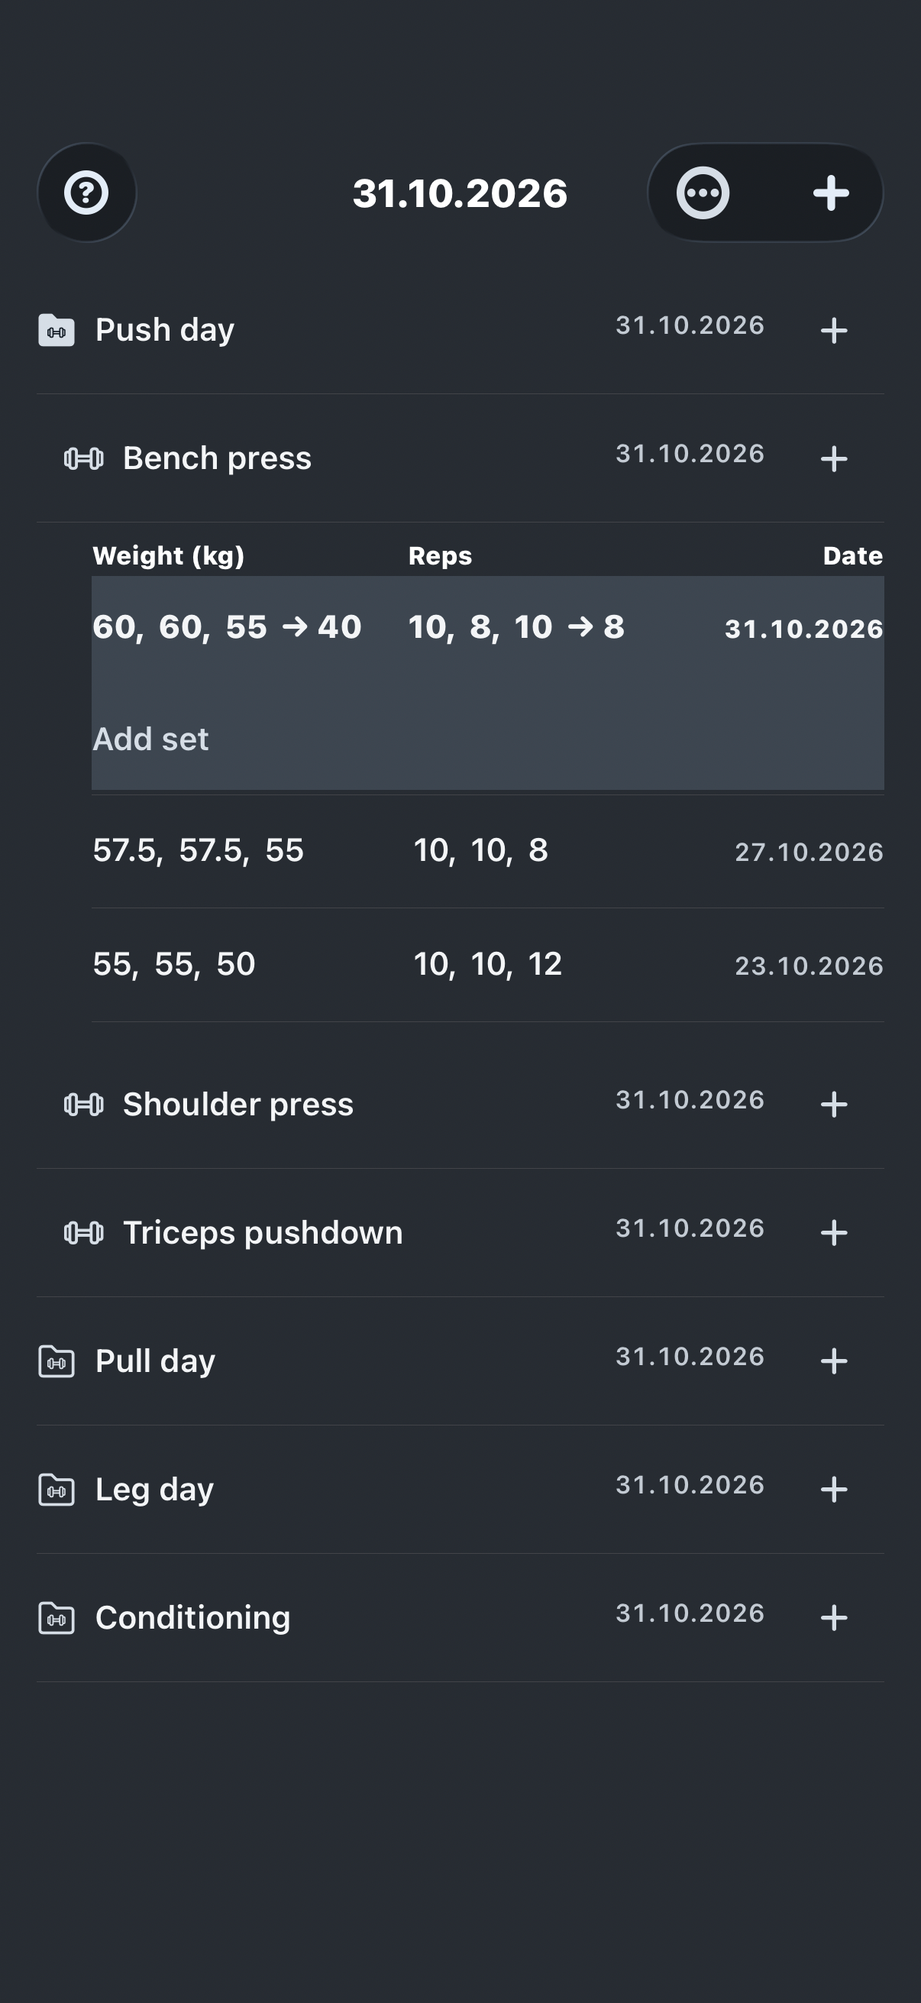
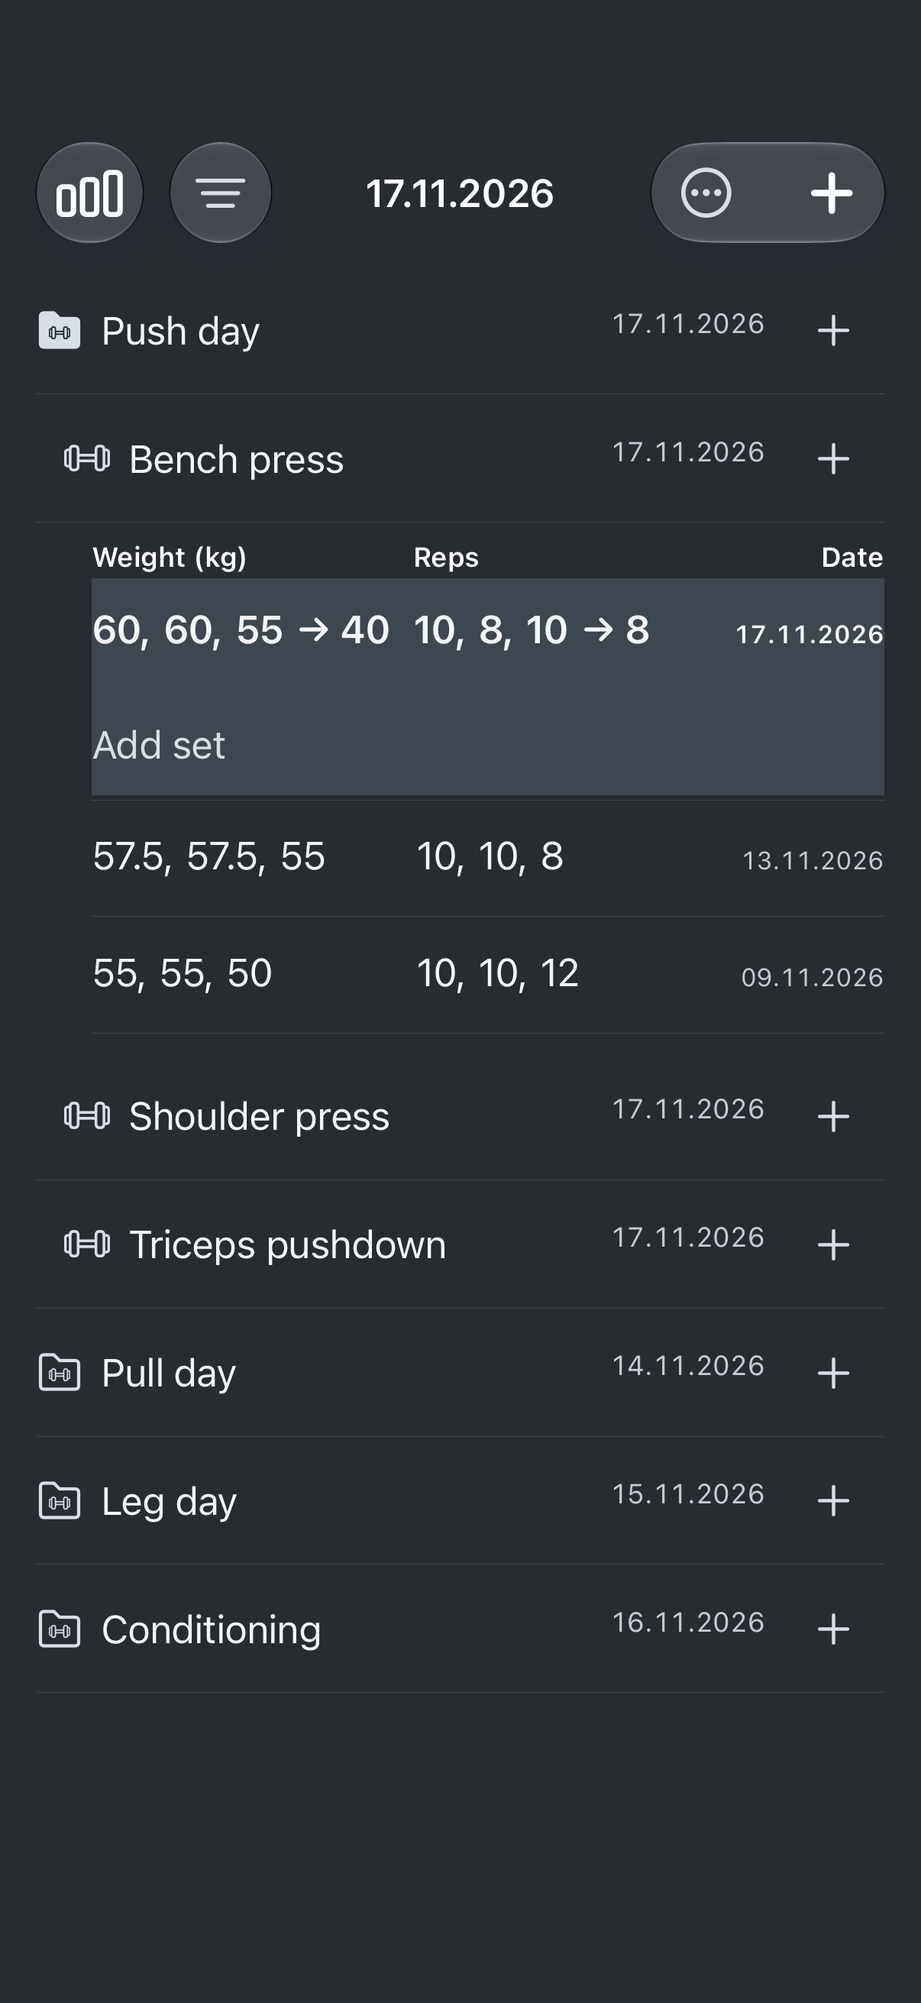
docs: refresh website guide and native screenshots

diff --git a/user-guide.html b/user-guide.html
@@ -18,11 +18,11 @@
             <nav class="contents" aria-label="Guide contents"><h2>In this guide</h2><ol><li><a href="#get-started">Set up your journal</a></li><li><a href="#record">Record a workout</a></li><li><a href="#cardio">Record cardio</a></li><li><a href="#history">History &amp; suggestions</a></li><li><a href="#edit">Edit sets &amp; dates</a></li><li><a href="#organize">Organize your journal</a></li><li><a href="#appearance">Themes &amp; layouts</a></li><li><a href="#backups">Export &amp; restore</a></li><li><a href="#ai">Use your records with AI</a></li></ol></nav>
             <div>
                 <section id="get-started" class="guide-section"><p class="eyebrow">01 · Get started</p><h2>Build your first training day.</h2><p>Your journal starts empty. A folder can represent a training day, a muscle group, or any grouping that makes sense to you.</p><ol><li>Tap <strong>+</strong> in the Journal toolbar to create a top-level folder. Give it a name and tap <strong>OK</strong>.</li><li>Tap <strong>+</strong> at the right of that folder, then choose <strong>Exercise</strong>. You can also choose <strong>Folder</strong> to create a folder inside it.</li><li>Name the exercise and choose <strong>Weight training</strong> or <strong>Cardio</strong>. Tap <strong>OK</strong>.</li><li>Tap the folder name or date to expand it. Tap again to collapse it.</li></ol><div class="callout"><p>The toolbar’s <strong>+</strong> always creates a top-level folder, even when another folder is open. Use the <strong>+</strong> on a folder row to add something inside it.</p></div><figure class="screenshot"><img src="assets/screenshots/journal-wild.png" width="402" height="874" loading="lazy" alt="A sample Wild journal with an expanded training folder and its exercise history."><figcaption>Folders and exercise histories expand in the same journal.</figcaption></figure></section>
-                <section id="record" class="guide-section"><p class="eyebrow">02 · Strength training</p><h2>One set at a time.</h2><ol><li>Tap <strong>+</strong> beside an exercise to start today’s workout.</li><li>Enter kilograms and repetitions. Tap <strong>OK</strong> to save the set.</li><li>Use <strong>Add set</strong> below today’s date, or the exercise’s <strong>+</strong>, to continue the same workout.</li></ol><p>Use a decimal point for weight, such as <code>60.5</code>, and whole numbers for repetitions. Zero is valid in either field. Commas and negative values are not accepted. <strong>OK</strong> becomes available when both fields are valid.</p><h3>Link a drop set</h3><p>Separate each step with a dash. For example, weights <code>60-40</code> and reps <code>10-8</code> record 60 kg × 10 followed by 40 kg × 8 as one linked set. Each weight needs exactly one repetition value.</p><p>Saved history uses an arrow between linked steps. Separate sets stay separate. <strong>Cancel</strong> discards an unsaved entry.</p></section>
+                <section id="record" class="guide-section"><p class="eyebrow">02 · Strength training</p><h2>One set at a time.</h2><ol><li>Tap <strong>+</strong> beside an exercise to start today’s workout.</li><li>Enter kilograms and repetitions. Tap <strong>OK</strong> to save the set.</li><li>Use <strong>Add set</strong> below today’s date, or the exercise’s <strong>+</strong>, to continue the same workout.</li></ol><p>Use a decimal point for weight, such as <code>60.5</code>, and whole numbers for repetitions. Zero is valid in either field. Negative kilograms represent assistance, such as <code>-20</code> for 20 kg of assistance. Repetitions must be nonnegative. Commas separate drop steps, not decimals. <strong>OK</strong> becomes available when both fields are valid.</p><h3>Link a drop set</h3><p>Separate each step with a dash or comma. Use commas for assisted weights, such as <code>-20,-10</code> with reps <code>10,8</code>. For example, weights <code>60-40</code> and reps <code>10-8</code> record 60 kg × 10 followed by 40 kg × 8 as one linked set. Each weight needs exactly one repetition value.</p><p>Saved history uses an arrow between linked steps. Separate sets stay separate. <strong>Cancel</strong> discards an unsaved entry.</p></section>
                 <section id="cardio" class="guide-section"><p class="eyebrow">03 · Cardio</p><h2>Record weight and time.</h2><p>Choose <strong>Cardio</strong> when creating the exercise. An exercise’s type stays fixed after creation.</p><p>Enter kilograms and a time in minutes:seconds or minutes.seconds. Both <code>2:10</code> and <code>2.10</code> mean <strong>2 minutes 10 seconds</strong>, not 2.1 minutes.</p><ul><li>Use two seconds digits, from <code>00</code> to <code>59</code>.</li><li>Time must be greater than zero. For two whole minutes, enter <code>2:00</code>.</li><li>For linked steps, enter weights such as <code>20-10</code> with times such as <code>2:10-1.30</code>.</li></ul><p>History displays time as <strong>m:ss</strong>. Previous weights can be suggested, but you enter the duration actually performed.</p></section>
-                <section id="history" class="guide-section"><p class="eyebrow">04 · Look back</p><h2>Your last session, close at hand.</h2><p>Tap an exercise’s name or date area to show its history underneath. An exercise with no records shows <strong>No workouts yet.</strong></p><p>A new workout suggests weights from the most recent calendar date in that exercise’s history. Each new set uses the corresponding previous set’s weights. A previous drop set suggests its full weight chain.</p><p>Suggestions are editable. Repetitions and cardio times stay blank so you can record what you actually did. Suggestions are separate from saved results and are not included in CSV backups.</p></section>
+                <section id="history" class="guide-section"><p class="eyebrow">04 · Look back</p><h2>Your last session, close at hand.</h2><p>Tap an exercise’s name or date area to show its history underneath. An exercise with no records shows <strong>No workouts yet.</strong></p><p>A new workout suggests weights from the most recent calendar date in that exercise’s history. Each new set uses the corresponding previous set’s weights. A previous drop set suggests its full weight chain.</p><p>Suggestions use the full exercise history, even with a date filter active, and are editable. Repetitions and cardio times stay blank so you can record what you actually did. Suggestions are separate from saved results and are not included in CSV backups.</p><h3>Filter history by date</h3><p>Tap the filter button beside Statistics and choose <strong>1 month</strong>, <strong>3 months</strong>, <strong>6 months</strong> or <strong>12 months</strong> through today. All folders and exercises remain visible. Tap the period chip’s <strong>×</strong> or choose <strong>Clear filter</strong> to show all history. Filtering does not change saved records, statistics or exports; it clears after a fresh app launch or replacing the journal.</p><h3>View statistics</h3><p>Tap the chart button at Journal’s top left for total days trained, total saved workouts and a weekly streak. Days count once across exercises; several sets in one workout still count as one workout. The streak counts consecutive Monday–Sunday weeks with training, keeping last week’s streak during an unfinished current week. Weekly grid squares show distinct training days; tap one for details. Save or cancel an open draft before using Statistics or Date filter.</p></section>
                 <section id="edit" class="guide-section"><p class="eyebrow">05 · Make a correction</p><h2>A quick edit, or a whole workout.</h2><p>Press and hold a saved value to choose <strong>Edit set</strong> or <strong>Manage workout</strong>.</p><div class="table-scroll"><table class="data-table"><caption class="small">When changes are saved</caption><thead><tr><th scope="col">Action</th><th scope="col">How to save</th></tr></thead><tbody><tr><td>Edit set</td><td><strong>OK</strong> saves the correction. <strong>Cancel</strong> discards it.</td></tr><tr><td>Manage workout</td><td>Edit, add missing sets or drag handles to reorder. Tap <strong>Save</strong> at the top to save the whole draft.</td></tr><tr><td>Edit set inside Manage workout</td><td><strong>OK</strong> updates only the workout draft. You still need to tap the workout’s <strong>Save</strong>.</td></tr></tbody></table></div><div class="callout"><p>In <strong>Manage workout</strong>, the top <strong>Cancel</strong> button or dismissing the screen discards all unsaved workout changes. If saving fails, the draft stays open so you can retry or cancel.</p></div><figure class="screenshot"><img src="assets/screenshots/manage-workout.png" width="402" height="874" loading="lazy" alt="Manage workout screen showing separate sets, reorder handles, Cancel and Save."><figcaption>Manage a workout as a draft, then save your changes together.</figcaption></figure><h3>Remove a drop step</h3><p>Use <strong>Edit set</strong> and remove that step’s value from both fields. Removing a whole set removes its entire linked group.</p><h3>Change the date</h3><p>Press and hold a workout’s date, choose a calendar date, and tap <strong>OK</strong>. If the exercise already has a workout on that date, choose <strong>Combine</strong> to join their sets.</p></section>
-                <section id="organize" class="guide-section"><p class="eyebrow">06 · Keep things in order</p><h2>Arrange your routine.</h2><p>Press and hold a folder or exercise for <strong>Rename</strong>, <strong>Move</strong> or <strong>Delete</strong>. When moving, select the destination and tap <strong>Move here</strong>.</p><p>For top-level ordering, use <strong>Journal → ••• → Reorder contents</strong>. To order items inside a folder, press and hold it and choose <strong>Reorder contents</strong>. Drag the handles, then tap <strong>Save</strong>. Cancel or dismissing discards the unsaved order.</p><p>Review deletion confirmations carefully. Export a backup first if you want to keep a separate copy of the records.</p></section>
+                <section id="organize" class="guide-section"><p class="eyebrow">06 · Keep things in order</p><h2>Arrange your routine.</h2><p>A folder’s date shows its latest workout, including nested exercises; folders without workouts show <strong>—</strong>.</p><p>Press and hold a folder or exercise for <strong>Rename</strong>, <strong>Move</strong> or <strong>Delete</strong>. When moving, select the destination and tap <strong>Move here</strong>.</p><p>For top-level ordering, use <strong>Journal → ••• → Reorder contents</strong>. To order items inside a folder, press and hold it and choose <strong>Reorder contents</strong>. Drag the handles, then tap <strong>Save</strong>. Cancel or dismissing discards the unsaved order.</p><p>Review deletion confirmations carefully. Export a backup first if you want to keep a separate copy of the records.</p></section>
                 <section id="appearance" class="guide-section"><p class="eyebrow">07 · Make it yours</p><h2>A different view of the same work.</h2><p>Open <strong>Journal → ••• → Theme</strong> for Wild, Iron light, Steel or Notes. Wild is the default. Each theme sets its own light or dark appearance.</p><div class="theme-list"><div class="theme wild"><h3>Wild</h3><p>Light, with green animal icons.</p></div><div class="theme iron"><h3>Iron light</h3><p>Light, with orange gym icons.</p></div><div class="theme steel"><h3>Steel</h3><p>Dark gray, with silver gym icons.</p></div><div class="theme notes"><h3>Notes</h3><p>Dark, with yellow accents.</p></div></div><figure class="screenshot"><img src="assets/screenshots/journal-steel.png" width="402" height="874" loading="lazy" alt="The same sample workout history in the dark Steel theme with silver gym icons."><figcaption>The same journal, in Steel.</figcaption></figure><h3>Choose a history layout</h3><p>Open <strong>Journal → ••• → History layout</strong>.</p><ul><li><strong>Compact lists:</strong> several sets per line, separated by commas.</li><li><strong>Aligned sets:</strong> each set starts on a new line.</li><li><strong>Weight × reps:</strong> pairs such as <code>60 kg × 10</code>; linked steps use arrows. Cardio uses time in place of repetitions.</li></ul><p>Changing the theme or layout does not change your saved workouts or an entry you are editing. Your choices are remembered on this device, separately from CSV backups.</p></section>
                 <section id="backups" class="guide-section"><p class="eyebrow">08 · Back up your journal</p><h2>A local journal. A separate backup.</h2><p>Lift &amp; Hop works offline and stores the journal on your iPhone. It does not provide live journal synchronization between devices.</p><h3>Export a copy</h3><ol><li>Open <strong>Journal → ••• → Export</strong>.</li><li>Keep the timestamped filename, or enter a name of your own.</li><li>Tap <strong>Share CSV</strong>, then use <strong>Save to Files</strong> to choose a destination.</li><li>Complete the save and check that the file exists at that destination.</li></ol><p>For an off-device backup, choose a location such as iCloud Drive when available and verify the copy there. Opening or closing the share sheet alone does not confirm that a backup was saved.</p><figure class="screenshot"><img src="assets/screenshots/export.png" width="402" height="874" loading="lazy" alt="Export screen offering a filename, Include AI prompt toggle and Share CSV."><figcaption>Exports include saved records, empty folders and exercises—not unsaved drafts or display preferences.</figcaption></figure><h3>Import a file</h3><p>Open <strong>Journal → ••• → Import → Choose CSV file</strong>. The app checks the entire file before changing any entries. Review the counts, then choose:</p><ul><li><strong>Add to journal:</strong> keeps your current entries and adds separate copies at the end of Journal. Matching names and dates are not merged. Importing the same file again creates duplicates.</li><li><strong>Replace journal:</strong> removes the current journal and restores only what is in the selected file.</li></ul><div class="callout warning"><p><strong>Replace applies to the whole journal.</strong> Anything missing from the selected backup is removed. Replacing with an empty backup removes all current entries. Use <strong>Export current journal</strong> first to keep a separate copy.</p></div><p>Canceling, an invalid file or a failed import leaves the existing journal saved. Completing an export during import does not start Add or Replace; you must still choose the import action.</p><h3>Use a recovery backup</h3><p>Before either Add or Replace, the app saves a recovery CSV on the same device. Open <strong>Import → Recovery backups</strong>, select a copy and use <strong>Replace journal</strong> to return to it. Choosing Add would create additional copies.</p><p>Recovery files remain after relaunch and are not automatically deleted. They help recover from an import, but do not protect against losing access to the phone. Keep an off-device export too.</p><p class="small">Lift &amp; Hop CSV exports preserve exercise types and cardio durations.</p></section>
                 <section id="ai" class="guide-section"><p class="eyebrow">09 · Optional external tools</p><h2>Take your records further.</h2><h3>Convert older workout notes</h3><p>Use <strong>Import → Export AI import prompt</strong> to save instructions for converting existing records. Paste the prompt into your chosen AI chat, attach only the records you want converted, and answer questions about dates, units and unclear notation.</p><p>Check the resulting CSV against the original records before importing it. Choose <strong>Add to journal</strong> to retain your existing entries; Replace affects the entire journal.</p><h3>Explore an exported journal</h3><p>Turn on <strong>Include AI prompt</strong> in Export to include instructions for interpreting the CSV and creating spreadsheet tables or charts. Save both files, then provide them to your chosen service. This option starts off each time you open Export.</p><div class="callout"><p>The app does not send your journal to an AI service automatically. Records you attach or share are handled under that service’s privacy practices. The prompt file alone contains no personal journal data.</p></div><p>Need a hand? Visit <a href="support.html">Support</a> or read the <a href="privacy.html">Privacy policy</a>.</p></section>

diff --git a/support.html b/support.html
@@ -15,7 +15,7 @@
     <main id="main" class="container">
         <div class="page-intro"><p class="eyebrow">Support</p><h1>Let’s get you back<br>to your journal.</h1><p class="lead">Questions, something unexpected, or an idea to share? Start with the guide or send a message.</p></div>
         <div class="support-layout">
-            <section class="contact-panel" aria-labelledby="contact-title"><h2 id="contact-title">Get in touch.</h2><p><a class="email" href="mailto:lift-hop@outlook.com?subject=Lift%20%26%20Hop%20support">lift-hop@outlook.com</a></p><p class="small">If the link does not open an email app, copy the address into your usual mail service.</p><h3>Reporting a problem?</h3><ol><li>Describe what you were doing, what you expected, and what happened.</li><li>Include the app version and build from the <strong>Help (?)</strong> button at the top left of Journal.</li><li>Include your iPhone model and iOS version from <strong>Settings → General → About</strong>.</li><li>If useful, attach a screenshot with personal details removed.</li></ol><p class="small">You do not need to send your whole journal. Share only the details needed to explain the issue. See how <a href="privacy.html#support-email">support messages are handled</a>.</p></section>
+            <section class="contact-panel" aria-labelledby="contact-title"><h2 id="contact-title">Get in touch.</h2><p><a class="email" href="mailto:lift-hop@outlook.com?subject=Lift%20%26%20Hop%20support">lift-hop@outlook.com</a></p><p class="small">If the link does not open an email app, copy the address into your usual mail service.</p><h3>Reporting a problem?</h3><ol><li>Describe what you were doing, what you expected, and what happened.</li><li>Include the app version and build from <strong>Journal → ••• → Help</strong>.</li><li>Include your iPhone model and iOS version from <strong>Settings → General → About</strong>.</li><li>If useful, attach a screenshot with personal details removed.</li></ol><p class="small">You do not need to send your whole journal. Share only the details needed to explain the issue. See how <a href="privacy.html#support-email">support messages are handled</a>.</p></section>
             <section aria-labelledby="answers-title"><p class="eyebrow">A few quick answers</p><h2 id="answers-title">Start here.</h2><details open><summary>How do I record my first workout?</summary><p>Create a folder with the toolbar’s <strong>+</strong>, add an exercise using the folder’s <strong>+</strong>, then tap <strong>+</strong> beside the exercise. Enter the set and tap <strong>OK</strong>. The <a href="user-guide.html#get-started">getting-started guide</a> walks through it.</p></details><details><summary>Does it work without an internet connection?</summary><p>Yes. Core journal use is local and works offline.</p></details><details><summary>Does my journal sync between devices?</summary><p>No. Lift &amp; Hop does not provide live journal synchronization. You can export a CSV and import it on another device. Review <a href="user-guide.html#backups">Add versus Replace</a> before importing.</p></details><details><summary>I left Manage workout. Were my changes saved?</summary><p>Only if you tapped <strong>Save</strong> at the top. Cancel or dismissing the screen discards unsaved changes. <strong>OK</strong> inside its set editor updates the draft; it does not save the entire workout. See <a href="user-guide.html#edit">editing workouts</a>.</p></details><details><summary>How do I recover from an import?</summary><p>Open <strong>Import → Recovery backups</strong>, select the earlier journal and choose <strong>Replace journal</strong>. Local recovery files are saved before each import. Export the current journal first if you want to preserve it too.</p></details><details><summary>Why is my CSV rejected?</summary><p>The app accepts CSV files in the Lift &amp; Hop format. A general spreadsheet CSV may need conversion. Keep the original file, note the validation message and contact support if needed.</p></details><details><summary>How do I make a separate backup?</summary><p>Use <strong>Journal → ••• → Export → Share CSV → Save to Files</strong>. Choose an off-device destination such as iCloud Drive and verify the saved file there. A recovery copy on the same phone is not a separate backup.</p></details><p style="margin-top: 24px"><a class="text-link" href="user-guide.html">Read the complete user guide →</a></p></section>
         </div>
     </main>

diff --git a/index.html b/index.html
@@ -39,10 +39,6 @@
                 <li><span class="step-number" aria-hidden="true">03</span><h3>Look back, keep going</h3><p>Expand an exercise to see its history. Choose a layout and theme, correct a set, or move a workout to its proper calendar date.</p><a class="text-link" href="user-guide.html#history">Read your history →</a></li>
             </ol>
         </section>
-        <section class="container section feature" aria-labelledby="backup-title">
-            <figure class="feature-art"><img src="assets/screenshots/export.png" width="402" height="874" loading="lazy" alt="Export screen with a CSV filename, optional AI prompt and Share CSV button."><figcaption>Export a copy to a destination you choose.</figcaption></figure>
-            <div class="feature-copy"><p class="eyebrow">Your journal, your copy</p><h2 id="backup-title">Keep a backup beyond your phone.</h2><p>Your journal lives on your iPhone. Export it as CSV to keep a separate copy, work with it in a spreadsheet, or restore it later.</p><p>There is no live journal sync. Local recovery files help with imports; an export saved and checked somewhere off your device is your separate backup.</p><a class="text-link" href="user-guide.html#backups">Learn about export and restore →</a></div>
-        </section>
         <section class="container section" aria-labelledby="appearance-title">
             <div class="section-heading"><p class="eyebrow">A familiar space</p><h2 id="appearance-title">Choose your kind of journal.</h2><p class="lead">Four themes and three history layouts. The same records, presented the way you prefer.</p></div>
             <div class="theme-list"><div class="theme wild"><h3>Wild</h3><p>Light paper, green accents, bears and hares.</p></div><div class="theme iron"><h3>Iron light</h3><p>A light journal with warm orange gym icons.</p></div><div class="theme steel"><h3>Steel</h3><p>Charcoal gray and silver gym icons.</p></div><div class="theme notes"><h3>Notes</h3><p>A dark journal with yellow accents.</p></div></div>
